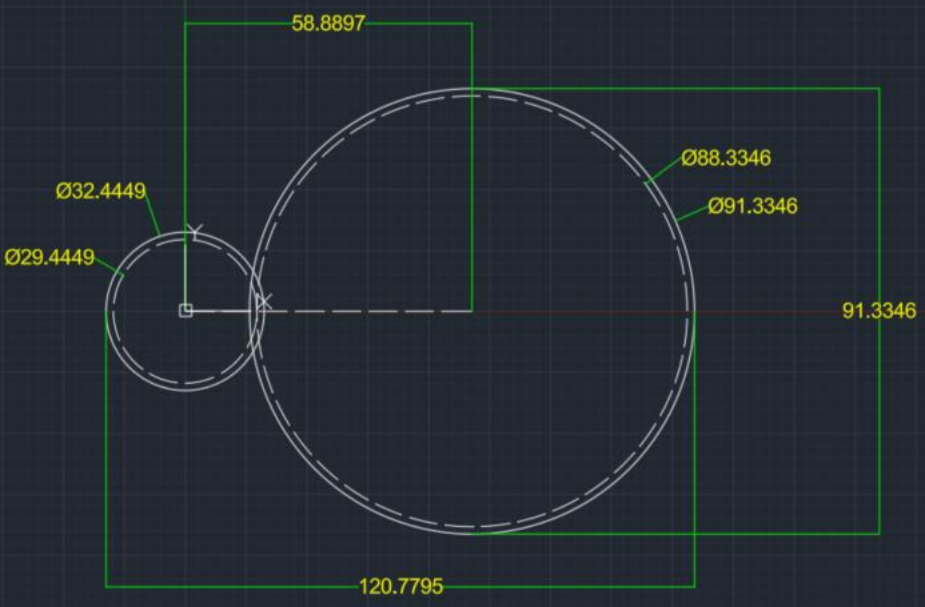
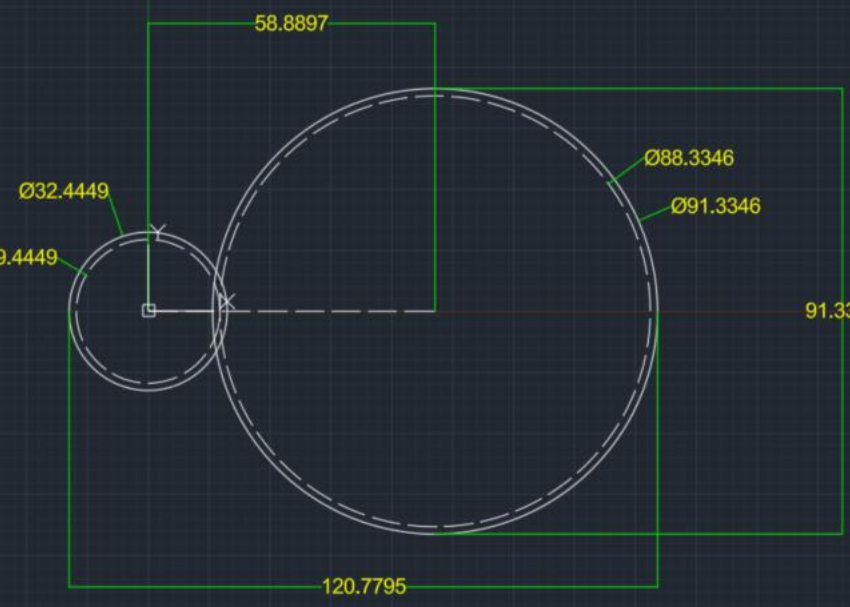
Fit gallery images to width with matching aspect ratio, not a fixed height
Cropped stage_1_2D.png's extra right-side margin so its aspect ratio
matches stages 2/3 (~1.4:1), and switched the gallery image CSS from a
fixed 220px height to aspect-ratio: 1.4. Equal grid columns then give
equal heights automatically, images fill their full column width, and
there's no letterboxing or visible cropping since the source images now
share the same shape.

diff --git a/styles.css b/styles.css
@@ -1607,7 +1607,7 @@ a.cert-card:focus-visible .cert-open { opacity: 1; transform: translate(1px, -1p
 .project-content .gallery img {
   margin: 0;
   width: 100%;
-  height: 220px;
+  aspect-ratio: 1.4;
   object-fit: cover;
 }
 .project-content .gallery figure { margin: 0; }
